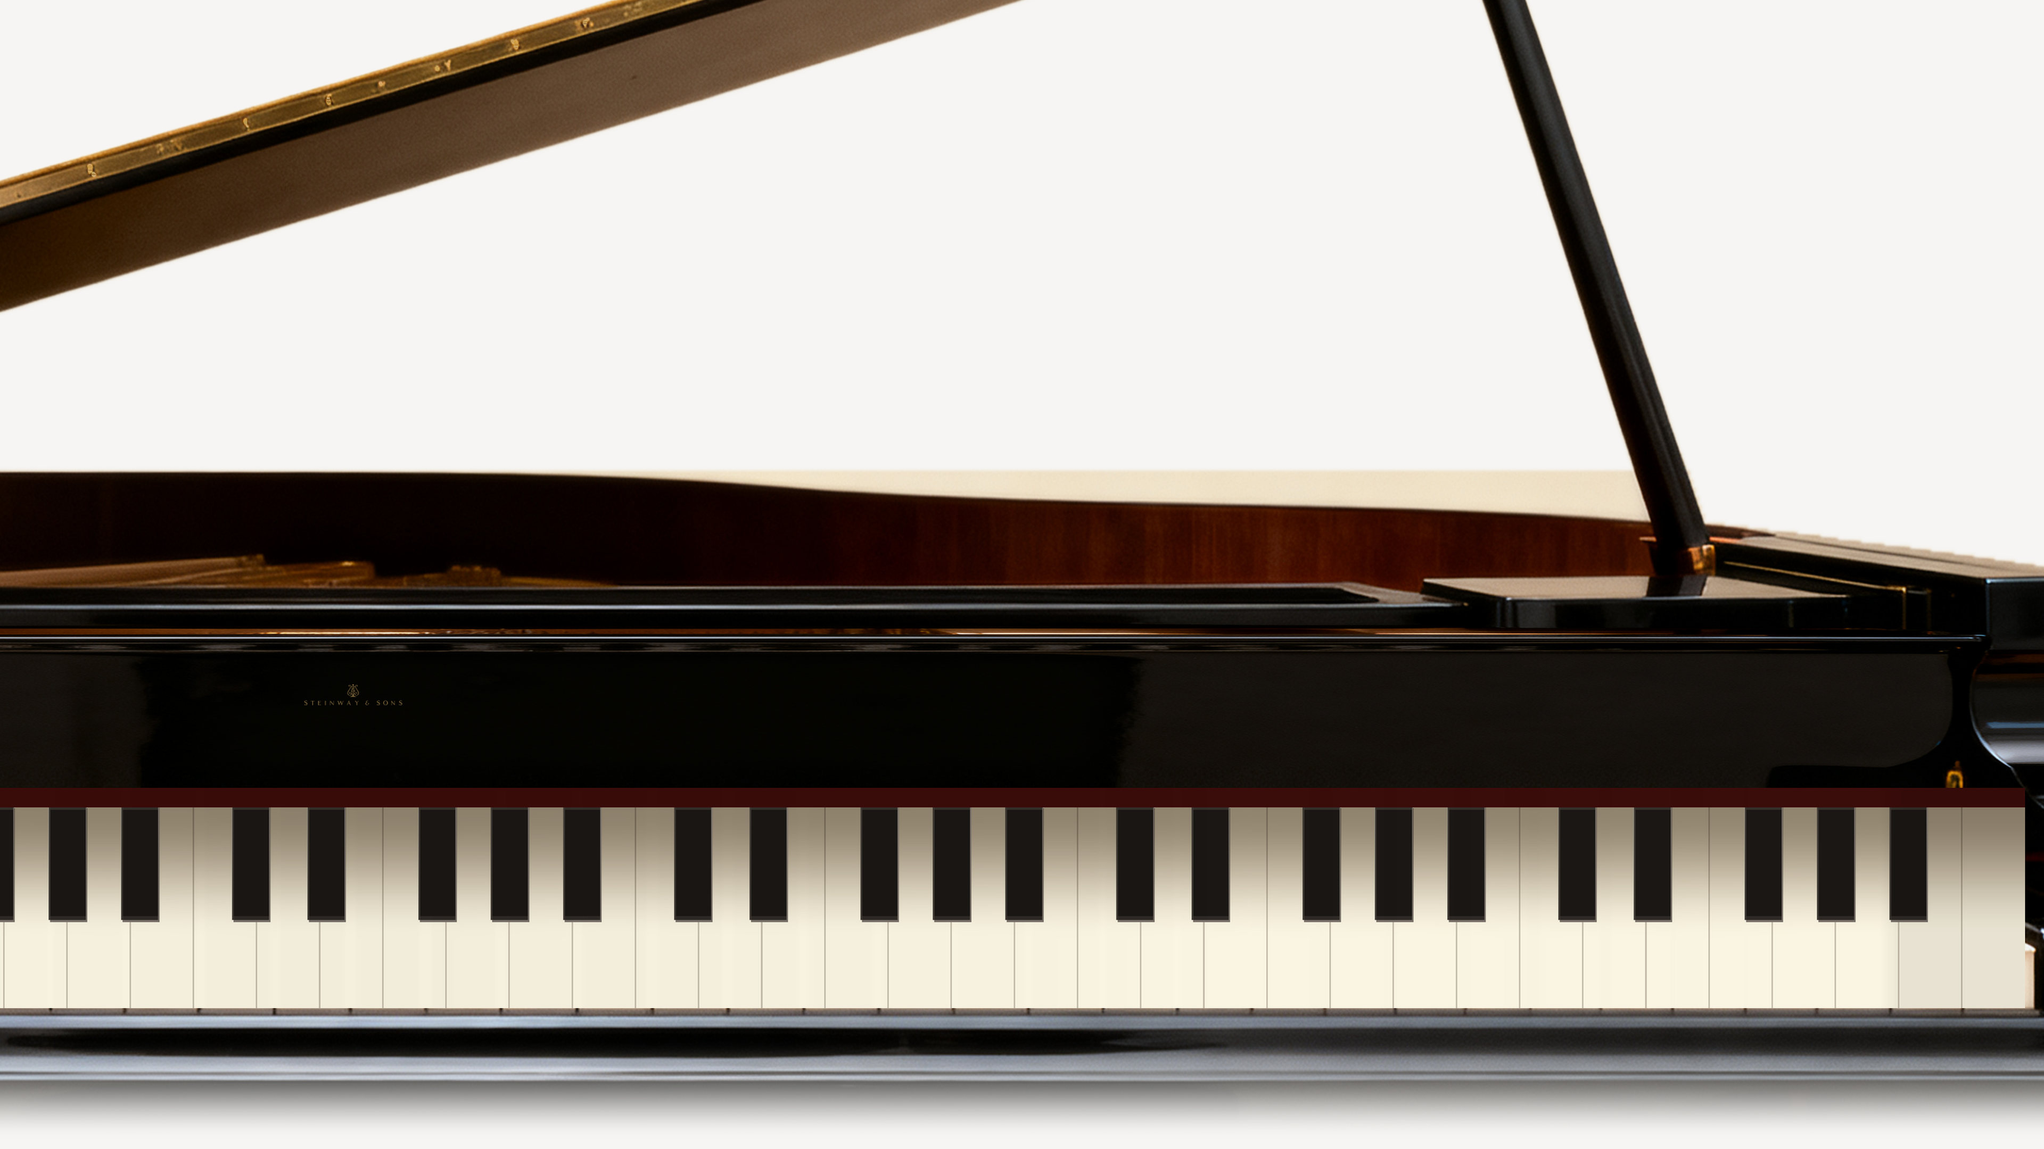
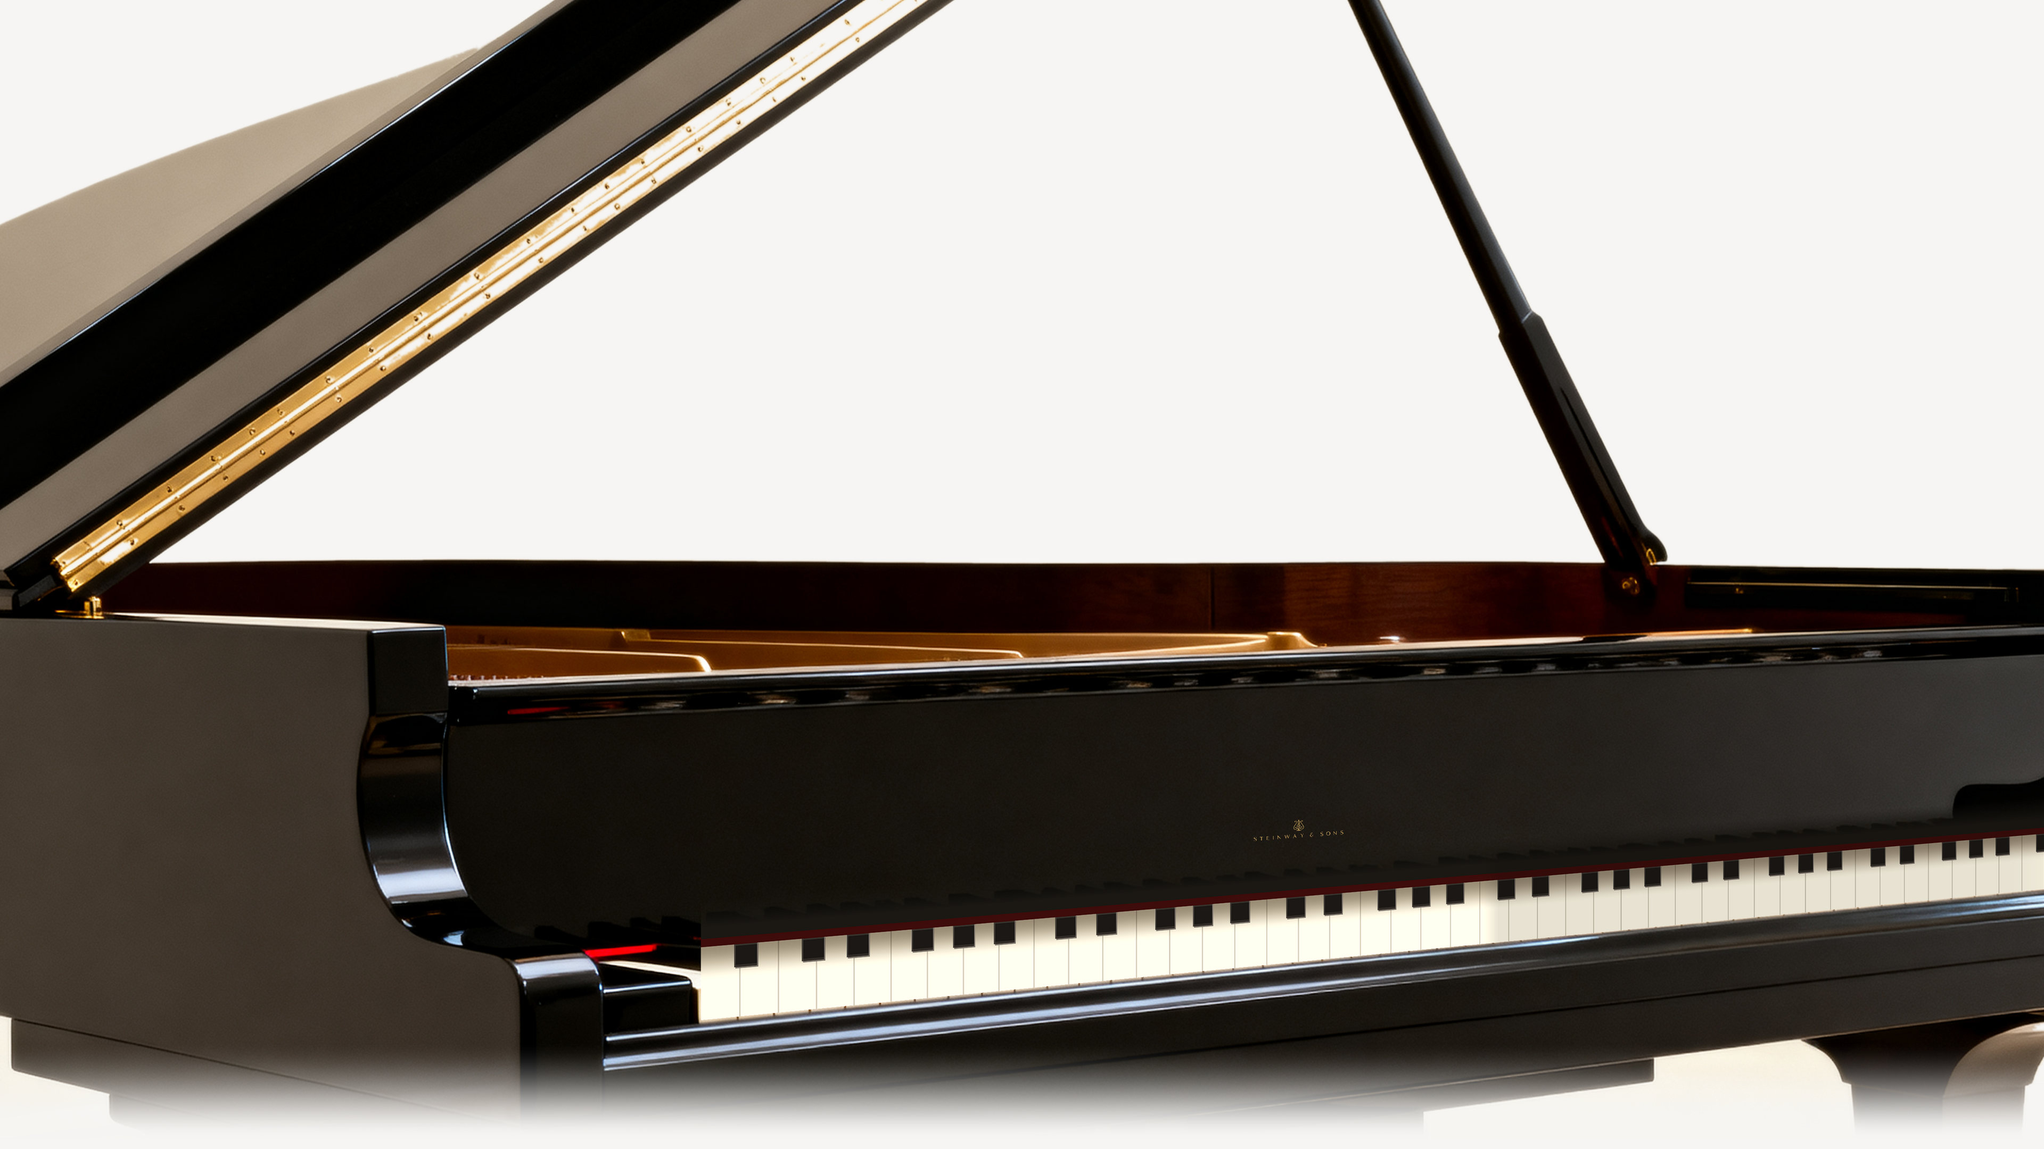
Desktop hero: new 4K plate on a subtle left-front perspective
New generation turned a few degrees left of straight-on and dropped to keyboard
height, so the instrument reads with depth and a sliver of its left side while
the rim still hides the interior and the keyboard faces the viewer. Oversized
and cropped through both edges; lid open on its prop and running off the top.

The perspective forced a new technique. The generated keyboard was warped again,
but the exact keyboard from scripts/keyboard.py could no longer be pasted square
onto a receding plane, so scripts/warp.py lays it in through a projective
transform fitted to the key plane. Finding that plane took measuring rather than
eyeballing: the key run's ends were located by the fraction of ivory inside a
fitted band, and because the keyboard leaves frame on the right, where its 52nd
natural falls was solved by fitting a projective 1-D spacing to the detected key
separations. The replacement carries a lacquer band above the felt, alpha-ramped
so it covers the plate's own key tops with no edge against the fallboard. The
decal is laid in on the fallboard's plane the same way.

Backdrop is forced to exactly #f6f5f3 -- read off the piano-video section rather
than assumed -- so the hero and that section share one ground. Measured 0.0
deviation across the backdrop.

Headline is 114.8px at 1440x900, 140px at 1080-tall, 96px at 768, centred and
inside the void at every size: title margins +37/+59, +46/+66 and +32/+55.
[…]

diff --git a/index.html b/index.html
@@ -161,8 +161,8 @@
       position: absolute;
       left: 0;
       right: 0;
-      bottom: 61.1%;
-      transform: translateX(-1.8vh);
+      bottom: 54.4%;
+      transform: translateX(2vh);
       z-index: 1;
       display: flex;
       flex-direction: column;
@@ -186,7 +186,7 @@
     }
 
     .hero-title {
-      font-size: clamp(52px, calc(20.5vh - 90px), 136px);
+      font-size: clamp(56px, calc(14.2vh - 13px), 140px);
       font-weight: 700;
       color: var(--text);
       letter-spacing: -0.03em;

diff --git a/scripts/build_hero.py b/scripts/build_hero.py
@@ -1,22 +1,19 @@
 """Compose the desktop hero from the generated grand-piano plate.
 
-The plate is a front elevation with the lid hinged to the rim on its prop. The
-triangle framed by the lid underside, the prop and the rim is the hero's
-negative space, and the headline is seated inside it.
+The plate is a near-front elevation turned a few degrees to the left, so the
+instrument reads with depth while the keyboard still faces the viewer. The
+triangle framed by the raised lid, its prop and the top of the case is the
+hero's negative space, and the headline is seated inside it.
 
-Two things about that triangle drive everything here. Its usable size scales
-with how large the piano is drawn, and the piano's scale is capped by height:
-the nav sits above it and the keyboard has to stay above the fold. So the way to
-a bigger headline is not a steeper lid -- steepening raises the instrument's
-overall height, forcing the piano smaller and the void with it. It is to shorten
-the instrument. The fallboard between the rim and the keys is a uniform black
-expanse (measured standard deviation 5-8 across its width), so it can be
-squeezed vertically without leaving a trace, which buys back scale for the whole
-piano and therefore a much larger headline.
+Two things are rebuilt rather than used as generated. The keyboard came back
+with uneven naturals and broken sharp groups, so it is redrawn from real
+dimensions (scripts/keyboard.py) and laid into the picture through a projective
+transform (scripts/warp.py) so it sits on the receding key plane instead of
+being pasted square. The fallboard carries the real Steinway wordmark from
+S&S_logo, laid in the same way.
 
-The model's keyboard came out with uneven key widths and broken sharp groups, so
-it is redrawn from real dimensions; see scripts/keyboard.py. The fallboard also
-carries the real Steinway wordmark from S&S_logo, laid in in brass.
+The backdrop is forced to exactly #f6f5f3 -- the colour of the piano-video
+section below -- so the hero and that section share one continuous ground.
 """
 import os
 import sys
@@ -28,106 +25,37 @@ from svglib.svglib import svg2rlg
 
 sys.path.insert(0, os.path.dirname(os.path.abspath(__file__)))
 import keyboard as kbmod
+import warp
 
 SRC = "images/backgorund-images/hero-piano-raw.jpg"
 LOGO = "S&S_logo/steinway-and-sons.svg"
 DST = "images/backgorund-images/hero-piano.jpg"
-BONE = np.array([0xF6, 0xF5, 0xF3], dtype=np.float64)
+BONE = np.array([0xF6, 0xF5, 0xF3], dtype=np.float64)   # == the piano-video section
 
 # Landmarks measured on the plate.
-PIANO_L, PIANO_R = 0, 5376        # the instrument fills the plate edge to edge
-LID_TIP = 355
-RIM_Y = 1540
-KB_X0, KB_X1 = 465, 4994          # run of naturals
-KB_FELT, KB_TOP, KB_SHARP, KB_BOT = 2478, 2505, 2660, 2782
-KB_END = 2800                     # below the naturals, where the slip begins
-SQ_TOP, SQ_BOT, SQ_KEEP = 1750, 2450, 200   # fallboard squeeze
-HINGE_Y = 1450                    # below this the lid's real hinge starts
+RIM_Y = 1700                       # top of the case; lower edge of the void
+KB_QUAD = [(2065, 2438), (5408, 2184), (5408, 2382), (2065, 2709)]   # tl tr br bl
+KB_LOW = 2711                      # the keyboard's lowest point
+FELT_M, FELT_C = -0.0832, 2699.8   # the felt line, y = m x + c
 
-# Design frame is 1440x900 (the hero at the reference desktop width), built at 2x.
+# Design frame is 16:9; built at 2x and delivered at 3840x2160.
 SS = 2
-DW, DH = 1600 * SS, 900 * SS      # 16:9 design frame
-PIANO_TOP = -304 * SS               # lid tip runs off the top, as the reference does
-KB_BOTTOM = 800 * SS              # keyboard floor, leaving room beneath it
-PIANO_DX = -524 * SS              # slide the instrument so the void centres on the frame
-FADE_FROM, FADE_TO = 812 * SS, 892 * SS   # starts below the keys, never over them
-
-
-def remove_duplicate_lid(a):
-    """Delete the second lid panel the model drew alongside the real one.
-
-    Row by row above the rim the plate reads as: a ~157px slab, a gap, the lid
-    proper (300-450px, carrying the brass rim), then the prop far right. The
-    slab is the duplicate, and it is always the run left of the widest one, so
-    everything left of the lid can simply be returned to backdrop.
-    """
-    h, w, _ = a.shape
-    lum = 0.2126*a[:, :, 0] + 0.7152*a[:, :, 1] + 0.0722*a[:, :, 2]
-    kill = np.zeros((h, w), bool)
-    for y in range(RIM_Y):
-        row = lum[y] < 185
-        runs, st = [], None
-        for x in range(w):
-            if row[x] and st is None:
-                st = x
-            elif not row[x] and st is not None:
-                if x - st > 8:
-                    runs.append((st, x - 1))
-                st = None
-        if len(runs) < 2:
-            continue
-        main = max(runs, key=lambda r: r[1] - r[0])
-        if y < HINGE_Y:
-            # Clear the whole span rather than just the dark runs -- the
-            # duplicate carries its own bright brass edging, which a darkness
-            # test would leave behind as floating speckles. Cut at the midpoint
-            # of the gap, so the real lid keeps its own brass rim.
-            before = [r for r in runs if r[1] < main[0]] + [main]
-            if len(before) < 2:
-                continue
-            # Split at the widest gap: that is what separates the duplicate from
-            # the lid, whereas the narrow gaps are the lid's own edge and brass.
-            gaps = [(before[i + 1][0] - before[i][1], i) for i in range(len(before) - 1)]
-            _, i = max(gaps)
-            kill[y, :(before[i][1] + before[i + 1][0]) // 2] = True
-        else:
-            for r in runs:               # near the rim, keep the real hinge
-                if r[1] < main[0]:
-                    kill[y, r[0]:r[1] + 1] = True
-    soft = np.asarray(Image.fromarray((kill * 255).astype(np.uint8))
-                      .filter(ImageFilter.MaxFilter(5))
-                      .filter(ImageFilter.GaussianBlur(2.0)), np.float64) / 255.0
-    return a * (1 - soft[:, :, None]) + BONE[None, None, :] * soft[:, :, None]
-
-
-def close_lid_nicks(a):
-    """Fill the short backdrop gaps the slab removal bit out of the lid's edge.
-
-    Any run of backdrop above the rim that is narrower than a lid is a nick, not
-    a real opening, so it can be closed from the lacquer either side of it.
-    """
-    h, w, _ = a.shape
-    lum = 0.2126*a[:, :, 0] + 0.7152*a[:, :, 1] + 0.0722*a[:, :, 2]
-    for y in range(RIM_Y):
-        light = lum[y] > 185
-        st = None
-        for x in range(w):
-            if light[x] and st is None:
-                st = x
-            elif not light[x] and st is not None:
-                if 0 < st and x - st <= 70:          # flanked both sides, short
-                    a[y, st:x] = (a[y, st - 1] + a[y, x]) / 2.0
-                st = None
-    return a
+DW, DH = 1600 * SS, 900 * SS
+KB_BOTTOM = 800 * SS               # where the keyboard's lowest point lands
+PIANO_TOP = -150 * SS              # design y of the plate's top row
+PIANO_DX = -33 * SS               # slide so the lid clears the nav's left links
+FADE_FROM, FADE_TO = 815 * SS, 892 * SS   # starts below the keys, never over them
+LOGO_W, LOGO_CX = 200, 3400        # wordmark width and centre on the fallboard
 
 
 def snap_backdrop(a):
     """Force the studio backdrop onto exactly BONE.
 
-    Above the rim the only things in frame are the lid, the prop and backdrop,
-    so a threshold is safe there and reaches the void the lid encloses, which a
-    border flood fill cannot. Below the rim the fill is seeded from the border
-    instead, so the ivory naturals the case encloses are never touched.
+    Above the rim the frame holds only lid, prop and backdrop, so a threshold is
+    safe there and reaches the void the lid encloses, which a border flood fill
+    cannot. Below the rim the fill is seeded from every edge -- the instrument
+    reaches both sides, so pockets beside it are not all reachable from one
+    corner -- and never touches the naturals, which the case encloses.
     """
     h, w, _ = a.shape
     lum = 0.2126*a[:, :, 0] + 0.7152*a[:, :, 1] + 0.0722*a[:, :, 2]
@@ -138,10 +66,8 @@ def snap_backdrop(a):
     small = im.convert("L").resize((w // 4, h // 4), Image.BILINEAR)
     light = small.point(lambda v: 255 if v > 196 else 0)
     sw, sh = light.size
-    # Seed from every edge, not just one corner: the instrument reaches both
-    # sides here, so backdrop pockets beside it are not all reachable from (0,0).
-    for sx, sy in [(0, 0), (sw - 1, 0), (0, sh - 1), (sw - 1, sh - 1),
-                   (sw // 2, 0), (0, sh // 2), (sw - 1, sh // 2), (sw // 2, sh - 1)]:
+    for sx, sy in [(0, 0), (sw-1, 0), (0, sh-1), (sw-1, sh-1),
+                   (sw//2, 0), (0, sh//2), (sw-1, sh//2), (sw//2, sh-1)]:
         if light.getpixel((sx, sy)) == 255:
             ImageDraw.floodfill(light, (sx, sy), 128)
     below = np.asarray(light.point(lambda v: 255 if v == 128 else 0)
@@ -153,69 +79,55 @@ def snap_backdrop(a):
     return a * (1 - soft[:, :, None]) + BONE[None, None, :] * soft[:, :, None]
 
 
-def rebuild_keyboard(a):
-    """Swap the model's warped keyboard for a geometrically exact one."""
-    face = a[KB_BOT - 50:KB_BOT - 12, KB_X0:KB_X1].mean(axis=(0, 2))
-    prof = np.convolve(face, np.ones(401) / 401, mode="same")
-    prof = np.clip(prof / np.median(prof[200:-200]), 0.93, 1.07)
-    kb = kbmod.draw(KB_X1 - KB_X0, KB_TOP, KB_SHARP, KB_BOT, KB_TOP - KB_FELT, shade=prof)
-    im = Image.fromarray(np.clip(a, 0, 255).astype(np.uint8))
-    im.paste(kb, (KB_X0, KB_FELT))
-    return np.asarray(im, dtype=np.float64)
+def rebuild_keyboard(im):
+    """Lay a geometrically exact keyboard onto the receding key plane."""
+    a = np.asarray(im, dtype=np.float64)
+    (x0, _), (x1, _) = KB_QUAD[0], KB_QUAD[1]
+    width = x1 - x0
+    # The keyboard runs off the right edge, so sample what is in frame and
+    # stretch that lighting profile across the full key run.
+    xs = min(x1, a.shape[1])
+    face = a[2620:2680, x0:xs].mean(axis=(0, 2))
+    prof = np.convolve(face, np.ones(301)/301, mode="same")
+    prof = np.clip(prof / np.median(prof[150:-150]), 0.93, 1.07)
+    prof = np.interp(np.linspace(0, len(prof) - 1, width), np.arange(len(prof)), prof)
+    kb = kbmod.draw(width, 0, 51, 163, 18, shade=prof, dark_h=90)
+    return warp.place(im, kb, KB_QUAD)
 
 
-def squeeze_fallboard(a):
-    """Compress the uniform fallboard so the instrument fits taller in frame."""
-    im = Image.fromarray(np.clip(a, 0, 255).astype(np.uint8))
-    w = im.width
-    top = im.crop((0, 0, w, SQ_TOP))
-    mid = im.crop((0, SQ_TOP, w, SQ_BOT)).resize((w, SQ_KEEP), Image.LANCZOS)
-    bot = im.crop((0, SQ_BOT, w, im.height))
-    out = Image.new("RGB", (w, top.height + SQ_KEEP + bot.height))
-    out.paste(top, (0, 0))
-    out.paste(mid, (0, top.height))
-    out.paste(bot, (0, top.height + SQ_KEEP))
-    return np.asarray(out, dtype=np.float64), (SQ_BOT - SQ_TOP) - SQ_KEEP
-
-
-def lay_decal(a, fb_top, fb_bot):
-    """Inlay the real wordmark into the fallboard in brass."""
+def lay_decal(im):
+    """Inlay the real wordmark into the fallboard, on the fallboard's plane."""
     d = svg2rlg(LOGO)
-    w = 135
-    sc = w / d.width
+    sc = (LOGO_W * 4) / d.width
     d.width *= sc; d.height *= sc; d.scale(sc, sc)
     tmp = os.path.join(os.environ.get("TEMP", "."), "_logo_plate.png")
     renderPM.drawToFile(d, tmp, fmt="PNG", bg=0xFFFFFF)
-    logo = np.asarray(Image.open(tmp).convert("L"), dtype=np.float64)
-    alpha = np.clip((255.0 - logo) / 255.0, 0, 1)
+    g = np.asarray(Image.open(tmp).convert("L"), dtype=np.float64)
+    alpha = np.clip((255.0 - g) / 255.0, 0, 1)
     lh, lw = alpha.shape
+    art = np.zeros((lh, lw, 4), np.uint8)
+    art[:, :, :3] = np.array([201, 163, 94], np.uint8)
+    art[:, :, 3] = (alpha * 235).astype(np.uint8)
 
-    x0 = (PIANO_L + PIANO_R) // 2 - lw // 2
-    y0 = int((fb_top + fb_bot) / 2 - lh / 2)
-    patch = a[y0:y0 + lh, x0:x0 + lw]
-    lumin = 0.2126*patch[:, :, 0] + 0.7152*patch[:, :, 1] + 0.0722*patch[:, :, 2]
-    shade = np.clip(0.72 + lumin / 90.0, 0.6, 1.25)[:, :, None]
-    brass = np.array([201, 163, 94], dtype=np.float64)[None, None, :] * shade
-    al = (alpha * 0.93)[:, :, None]
-    a[y0:y0 + lh, x0:x0 + lw] = patch * (1 - al) + brass * al
-    return a
+    felt = lambda x: FELT_M * x + FELT_C
+    keyh = lambda x: 271 - 0.01466 * (x - KB_QUAD[0][0])      # local key-plane scale
+    hx = LOGO_W * lh / lw
+    quad = []
+    for x, up in ((LOGO_CX - LOGO_W/2, 0), (LOGO_CX + LOGO_W/2, 0),
+                  (LOGO_CX + LOGO_W/2, 1), (LOGO_CX - LOGO_W/2, 1)):
+        base = felt(x) - 0.62 * keyh(x)
+        quad.append((x, base + up * hx * keyh(x) / 271))
+    return warp.place(im, Image.fromarray(art, "RGBA"), quad)
 
 
 a = np.asarray(Image.open(SRC).convert("RGB"), dtype=np.float64)
-a = snap_backdrop(close_lid_nicks(remove_duplicate_lid(a)))
-a = rebuild_keyboard(a)
-a, removed = squeeze_fallboard(a)
-a = lay_decal(a, SQ_TOP, SQ_TOP + SQ_KEEP)
+im = Image.fromarray(np.clip(snap_backdrop(a), 0, 255).astype(np.uint8))
+im = lay_decal(rebuild_keyboard(im))
 
-kb_bottom_src = KB_END - removed
-K = (KB_BOTTOM - PIANO_TOP) / (kb_bottom_src - LID_TIP)
-
-plate = Image.fromarray(np.clip(a, 0, 255).astype(np.uint8))
-scaled = plate.resize((round(plate.width * K), round(plate.height * K)), Image.LANCZOS)
+K = (KB_BOTTOM - PIANO_TOP) / KB_LOW
+scaled = im.resize((round(im.width * K), round(im.height * K)), Image.LANCZOS)
 canvas = Image.new("RGB", (DW, DH), tuple(BONE.astype(int)))
-ox = DW // 2 - round((PIANO_L + PIANO_R) / 2 * K) + PIANO_DX
-oy = PIANO_TOP - round(LID_TIP * K)
-canvas.paste(scaled, (ox, oy))
+canvas.paste(scaled, (DW // 2 - round(im.width / 2 * K) + PIANO_DX, PIANO_TOP))
 
 out = np.asarray(canvas, dtype=np.float64)
 y = np.arange(DH, dtype=np.float64)
@@ -228,4 +140,4 @@ final = Image.fromarray(np.clip(out, 0, 255).astype(np.uint8)).resize((3840, 216
 final.save(DST, quality=84, optimize=True, progressive=True, subsampling=0)
 print("wrote %s %s  %.0f KB   piano %.0f design px (%.0f%% of 1440)"
       % (DST, final.size, os.path.getsize(DST) / 1024,
-         (PIANO_R - PIANO_L) * K / SS, 100 * (PIANO_R - PIANO_L) * K / SS / 1440))
+         im.width * K / SS, 100 * im.width * K / SS / 1440))

diff --git a/scripts/keyboard.py b/scripts/keyboard.py
@@ -17,17 +17,20 @@ OFF = {"C": -0.097, "D": +0.097, "F": -0.146, "G": 0.0, "A": +0.145}
 NOTES = "ABCDEFG"
 
 
-def draw(width, top, sharp_bottom, bottom, felt_h, shade=None, ss=3):
+def draw(width, top, sharp_bottom, bottom, felt_h, shade=None, ss=3, dark_h=0):
     """Return an RGB image of the keyboard, `width` px wide."""
-    h = bottom - top + felt_h
+    h = bottom - top + felt_h + dark_h
     W, H = width * ss, h * ss
     img = Image.new("RGB", (W, H), (12, 11, 11))
     d = ImageDraw.Draw(img)
     w = W / 52.0
-    felt = felt_h * ss
+    dark = dark_h * ss
+    felt = dark + felt_h * ss
     kt, sb, kb = felt, felt + (sharp_bottom - top) * ss, felt + (bottom - top) * ss
 
-    d.rectangle([0, 0, W, felt], fill=(58, 12, 10))                    # felt
+    # lacquer above the felt, so the replacement covers the plate's own key tops
+    d.rectangle([0, 0, W, dark], fill=(26, 23, 18))
+    d.rectangle([0, dark, W, felt], fill=(58, 12, 10))                 # felt
     d.rectangle([0, kt, W, kb], fill=(250, 244, 226))                  # naturals
 
     for i in range(1, 52):                                             # separations
@@ -53,7 +56,7 @@ def draw(width, top, sharp_bottom, bottom, felt_h, shade=None, ss=3):
 
     # Naturals sit in shadow where the sharps enclose them, opening out below.
     y = np.arange(h, dtype=np.float64)[:, None, None]
-    t = np.clip((y - felt_h) / max(1, (sharp_bottom - top) + 26), 0, 1)
+    t = np.clip((y - felt_h - dark_h) / max(1, (sharp_bottom - top) + 26), 0, 1)
     lit = 0.58 + 0.42 * (t * t * (3 - 2 * t))
     natural = (a.mean(axis=2) > 150)[:, :, None]
     # Warm the shadow slightly rather than just darkening it, so the enclosed
@@ -64,4 +67,13 @@ def draw(width, top, sharp_bottom, bottom, felt_h, shade=None, ss=3):
 
     if shade is not None:                    # inherit the scene's lateral falloff
         a *= shade[None, :, None]
-    return Image.fromarray(np.clip(a, 0, 255).astype(np.uint8))
+
+    img = Image.fromarray(np.clip(a, 0, 255).astype(np.uint8)).convert("RGBA")
+    if dark_h:
+        # Fade the lacquer band in from nothing so the patch has no top edge
+        # against the fallboard it is covering.
+        alpha = np.full((h, width), 255, np.uint8)
+        ramp = np.clip(np.arange(dark_h) / max(1, dark_h * 0.7), 0, 1)
+        alpha[:dark_h] = (ramp[:, None] * 255).astype(np.uint8)
+        img.putalpha(Image.fromarray(alpha))
+    return img

diff --git a/scripts/warp.py b/scripts/warp.py
@@ -1,0 +1,29 @@
+"""Projective transform helpers for placing flat artwork onto an angled surface.
+
+The perspective plate shows the keyboard and fallboard receding, so the exact
+keyboard drawn by scripts/keyboard.py has to be laid into the picture on the
+same plane rather than pasted square.
+"""
+import numpy as np
+from PIL import Image
+
+
+def coeffs(dst_quad, src_size):
+    """PIL transform coefficients mapping destination pixels back into a
+    src_size rectangle, given where that rectangle's corners land."""
+    w, h = src_size
+    src = [(0, 0), (w, 0), (w, h), (0, h)]
+    A, B = [], []
+    for (dx, dy), (sx, sy) in zip(dst_quad, src):
+        A.append([dx, dy, 1, 0, 0, 0, -sx * dx, -sx * dy]); B.append(sx)
+        A.append([0, 0, 0, dx, dy, 1, -sy * dx, -sy * dy]); B.append(sy)
+    return np.linalg.solve(np.asarray(A, float), np.asarray(B, float))
+
+
+def place(base, art, dst_quad, feather=2.0):
+    """Warp `art` onto `base` so its corners land on dst_quad (tl, tr, br, bl)."""
+    c = coeffs(dst_quad, art.size)
+    layer = art.convert("RGBA").transform(base.size, Image.PERSPECTIVE, c, Image.BICUBIC)
+    out = base.convert("RGBA")
+    out.alpha_composite(layer)
+    return out.convert("RGB")
